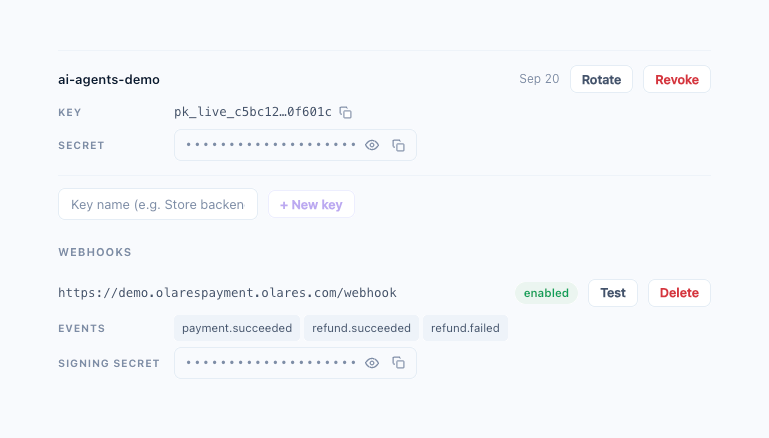
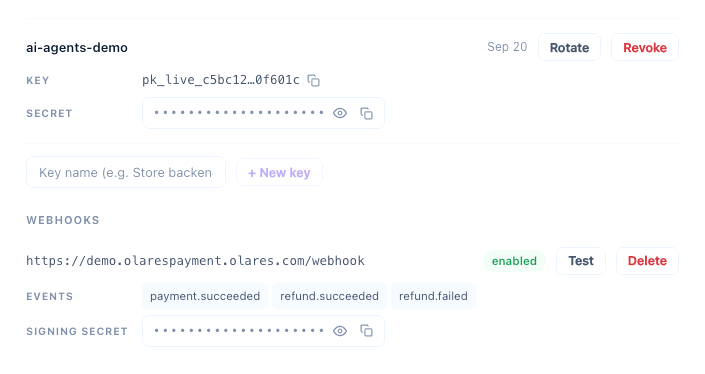
refactor(payment): remove PaymentLlmsLink component and update AI agent documentation

diff --git a/docs/.vitepress/theme/index.ts b/docs/.vitepress/theme/index.ts
@@ -19,7 +19,6 @@ const clientRedirects: Record<string, string> = { ...redirects, ...temporaryRedi
 import AppLinkGlobal from './components/AppLinkGlobal.vue'
 import AppLinkCN from './components/AppLinkCN.vue'
 import TryIt from './components/TryIt.vue'
-import PaymentLlmsLink from './components/PaymentLlmsLink.vue'
 
 
 const LANGUAGE_LOCAL_KEY = "language";
@@ -37,7 +36,6 @@ enhanceApp({ app, router }: { app: App; router: Router }) {
     app.component('AppLinkGlobal', AppLinkGlobal)
     app.component('AppLinkCN', AppLinkCN)
     app.component('TryIt', TryIt)
-    app.component('PaymentLlmsLink', PaymentLlmsLink)
 
       router.onBeforeRouteChange = (to: string) => {
           const path = to.replace(/\.html$/i, ''),

diff --git a/docs/developer/payment/ai-agents.md b/docs/developer/payment/ai-agents.md
@@ -9,65 +9,116 @@ head:
 
 # Build a payment store with an AI agent
 
-This guide shows how to use an AI agent to build a minimal store that accepts Olares Payment and install it on Olares OS. After installation, the store gets a public domain and can take orders from anywhere.
+This article walks you through using an AI agent to build an online store that accepts stablecoins, install it on Olares OS, and get a fixed domain you can reach from anywhere.
 
-The walkthrough below uses `olarespayment@olares.com`. Replace it with your own Olares ID.
-
-:::warning
-This tutorial requires Olares OS 1.12.5 or later.
+::: warning Version requirement
+This tutorial requires Olares OS 1.12.6 or later.
 :::
 
-## Prepare
+Only two values need your attention. Note them down now and copy them as you go:
+
+| Value | In this tutorial | Description |
+|---|---|---|
+| Olares ID domain prefix | `olarespayment` | The part of your Olares ID before the @ |
+| Store entrance name | `demo` | Also the store's subdomain prefix. Pick your own, but keep it identical throughout. |
+
+Following the example, the final address of the store is `https://demo.olarespayment.olares.com`.
+
+The whole job takes three steps. Writing the code, packaging, and installing all go to the agent:
+
+| Step | What you do | What the agent does | State when done |
+|---|---|---|---|
+| 1. Prepare | Create an API key in the Olares Payment merchant dashboard, register the webhook, and write the three secrets into `.env` | — | All secrets ready |
+| 2. Develop and deploy | Send one prompt | Write the code, package and install the Olares app | The store is live with a fixed domain |
+| 3. Verify | Open the store and place an order | — | The order turns "paid" |
+
+Why can you register the webhook in step 1? An Olares app's domain is fixed. It is built from the entrance name and your Olares ID, and you specify the entrance name in the prompt. So `https://demo.olarespayment.olares.com/webhook` is known before you install anything.
+
+## Before you start
 
 - **Prepare an AI agent**: any AI coding agent, such as Codex, Claude Code, Cursor, or DeepSeek Harness.
 - **Install olares-cli and Agent Skills**: see [Install olares-cli](../cli-install) and [Install and use Agent Skills](../cli-agent-skills).
-- **Sign in to Olares OS with olares-cli**: see [Log in to Olares](../cli-log-in). Make sure you are signed in with the example Olares ID, as shown here.
+- **Sign in to Olares OS with olares-cli**: see [Log in to Olares](../cli-log-in). Make sure you are signed in with the example Olares ID.
 
-  ![olares-cli profile list signed-in status](/images/payment/cli-profile-list.png#bordered)
+  ```bash
+  olares-cli profile list
+  ```
 
-- **Push images to a remote registry**: this machine is signed in to Docker Hub or another registry, so you can push images for Olares nodes to pull.
-- **Create an API key in the Olares Payment dashboard**: copy `pk_live_…` (API key) and `sk_live_…` (API secret). See [Quickstart](./quickstart). Set the webhook URL to `https://demo.olarespayment.olares.com/webhook`. After you save, you get `whsec_…`.
+  Example output:
 
-  ![API key and webhook in the Olares Payment dashboard](/images/payment/dashboard-api-webhook.png#bordered)
+  ```text
+      NAME                      OLARES-ID                 STATUS
+  *   olarespayment@olares.com  olarespayment@olares.com  logged-in
+  ```
 
-  In that URL, `olarespayment.olares.com` comes from the Olares ID `olarespayment@olares.com`, with `@` replaced by `.`. Replace it with your own Olares ID.
+  The leading `*` marks the current profile.
 
-- **Prepare a working directory**: create an empty directory. Write the API key, API secret, and webhook secret into `.env`:
+- **Docker**: this machine is logged in to Docker Hub or another public registry with `docker login`. Step 2 pushes images to it.
+
+## Step 1: Prepare
+
+1. Scan the QR code with LarePass to sign in to the Olares Payment merchant dashboard. Your merchant account is created automatically on first sign-in.
+
+2. Open the **Checkouts** page, open **Advanced settings** of the default store, and create a key under **API keys**. You get `pk_live_…` and `sk_live_…`. (For the illustrated steps, see the first two steps of the [Quickstart](./quickstart).)
+
+3. On the same panel, under **Webhooks**, set the webhook URL to `https://demo.olarespayment.olares.com/webhook` and save. You get the signing secret `whsec_…`.
+
+   ![API key and webhook in the Olares Payment merchant dashboard](/images/payment/dashboard-api-webhook.png#bordered)
+
+4. Create a repository and write the three secrets into `.env`:
+
+   ```bash
+   mkdir demo && cd demo
+   git init
+   echo ".env" >> .gitignore
+   ```
+
+   ```plain
+   # .env
+   PAYMENT_API_KEY=pk_live_…
+   PAYMENT_API_SECRET=sk_live_…
+   PAYMENT_WEBHOOK_SECRET=whsec_…
+   ```
+
+## Step 2: Develop and deploy
+
+Start the agent in the repository directory (`codex`, `claude`, or open the folder in Cursor), then send the prompt below. Only `demo` needs changing: replace it with your entrance name, the same one you used in the webhook URL in step 1.
 
 ```plain
-# .env
-PAYMENT_API_KEY=pk_live_…
-PAYMENT_API_SECRET=sk_live_…
-PAYMENT_WEBHOOK_SECRET=whsec_…
+Build a minimal online store (Node.js): a product page, a checkout endpoint, and an order result page.
+Take payments with Olares Payment:
+- On checkout, call createPayment, return checkoutUrl to the frontend, and redirect to the hosted checkout page
+- Expose a /webhook endpoint that receives payment.succeeded and marks the order paid once the signature is verified
+- Read secrets from .env (PAYMENT_API_KEY / PAYMENT_API_SECRET / PAYMENT_WEBHOOK_SECRET);
+  never hardcode them
+
+Then package it as an Olares app and install it on my Olares OS:
+- Build the image and push it to a public registry
+- Generate the chart: fix the external entrance name to demo, make the entrance publicly accessible,
+  and expose the payment secrets as configurable environment variables
+- Upload and install it, then tell me the store's address
+
+Payment API docs: https://www.olares.com/docs/developer/payment/llms-full.txt
 ```
 
-## Build and install on Olares OS
+Once the agent has read the docs, it does the rest in one pass: write the code, run it locally, then package and install it. Packaging details live in the `olares-chart` and `olares-market` skills, so you do not need to guide it. The entrance name is fixed to `demo`, so the address it produces is the one you registered the webhook with in step 1.
 
-Send the payment API document and the prompt below to the agent. When it finishes, the store is installed on your Olares OS. Open it to place an order and get paid.
-
-<PaymentLlmsLink />
-
-```plain
-Build a minimal store (Node.js) that can take payments. Price the
-product at $0.01. Read credentials from .env. Integrate using the
-Olares Payment API docs I provide.
-
-Package it and install it on the Olares OS I have already signed
-in to with olares-cli.
-Use https://demo.olarespayment.olares.com as the store URL.
-Opening it should let me place an order and complete a payment.
-```
-
-:::tip
-The store URL in the prompt is an example. Replace `olarespayment.olares.com` with the address derived from your Olares ID.
+::: info When the address is not what you expected
+If the address the agent reports after installation is not what you expected (Olares assigns another domain when the entrance name is taken), go back to the merchant dashboard and change the webhook URL to the actual domain.
 :::
 
-After it finishes, the store looks like this:
+## Step 3: Verify
 
-![Demo store](/images/payment/ds-v4-flash-store.png#bordered)
+Open `https://demo.olarespayment.olares.com` and place a real order: redirect to the hosted checkout → complete the payment → return to the store, where the order shows "paid".
 
-:::tip
-This demo was generated with DeepSeek-V4.1-Flash.
+The order status is flipped by the webhook notification, so seeing "paid" means the whole chain works: payment, notification, and fulfillment.
+
+When it finishes, the store page looks like this:
+
+![Store page](/images/payment/demo-store.png#bordered)
+
+::: info Example source
+This example was generated with DeepSeek-V4.1-Flash.
 :::
 
 ## Next steps

diff --git a/docs/zh/developer/payment/ai-agents.md b/docs/zh/developer/payment/ai-agents.md
@@ -9,66 +9,118 @@ head:
 
 # 用 AI 智能体搭建收款商店
 
-本文说明如何借助 AI 智能体构建接入 Olares Payment 的最小商店，并将其打包安装到 Olares OS。安装完成后，商店将获得可公开访问的域名，能够接收任意地方的下单。
+这篇文章带你用 AI 智能体做一个能收稳定币的在线商店，安装到 Olares OS 上，获得一个任何地方都能访问的固定域名。
 
-下文以 `olarespayment@olares.com` 为例演示。请将其替换为你自己的 Olares ID。
-
-:::warning
-本教程需要 Olares OS 1.12.5 或更高版本。
+::: warning 版本要求
+本教程需要 Olares OS 1.12.6 或更高版本。
 :::
 
-## 准备工作
+全文只有两个值需要确认，先记下来，后面照抄即可：
+
+| 值 | 本文示例 | 说明 |
+|---|---|---|
+| Olares ID 域名前缀 | `olarespayment` | 你的 Olares ID 中 @ 前的部分 |
+| 商店入口名称 | `demo` | 也是商店的子域名前缀，自取，但全文必须一致 |
+
+按示例，商店的最终地址就是 `https://demo.olarespayment.olares.com`。
+
+整件事只有三步，写代码、打包、安装交给智能体完成：
+
+| 步骤 | 你做什么 | 智能体做什么 | 做完后的状态 |
+|---|---|---|---|
+| 1. 准备 | 在 Olares Payment 商户后台创建 API 密钥，登记 webhook，把三个密钥写进 `.env` | — | 密钥全部就绪 |
+| 2. 开发部署 | 发一段提示词 | 写代码、打包、安装 Olares 应用 | 商店上线，有了固定域名 |
+| 3. 验收 | 打开商店下一单 | — | 订单变为“已支付” |
+
+webhook 为什么能在第 1 步就登记？Olares 应用的域名是确定的，由入口名和 Olares ID 拼成，入口名由你在提示词里指定。所以 `https://demo.olarespayment.olares.com/webhook` 这个地址在安装之前就是已知的。
+
+## 开始前检查
 
 - **准备好 AI 智能体**：任意 AI 编程智能体，如 Codex、Claude Code、Cursor、DeepSeek Harness。
 - **安装 olares-cli 和 Agent Skills**：见[安装 olares-cli](../cli-install) 和[安装与使用 Agent Skills](../cli-agent-skills)。
-- **用 olares-cli 登录 Olares OS**：步骤见[登录 Olares](../cli-log-in)。确保当前登录的是文中示例的 Olares ID，如图。
+- **用 olares-cli 登录 Olares OS**：步骤见[登录 Olares](../cli-log-in)。确保当前登录的是文中示例的 Olares ID。
 
-  ![olares-cli profile list 登录状态](/images/payment/cli-profile-list.png#bordered)
+  ```bash
+  olares-cli profile list
+  ```
 
-- **能把镜像推送到远程仓库**：本机已登录 Docker Hub 或其他镜像仓库，可将镜像推送到仓库，供 Olares 节点拉取。
-- **在 Olares Payment 后台创建 API key**：拿到 `pk_live_…`（API key）和 `sk_live_…`（API secret）。步骤见[快速开始](./quickstart)。Webhook 地址填 `https://demo.olarespayment.olares.com/webhook`，保存后会生成 `whsec_…`。
+  输出示例：
 
-  ![Olares Payment 后台中的 API key 与 webhook](/images/payment/dashboard-api-webhook.png#bordered)
+  ```text
+      NAME                      OLARES-ID                 STATUS
+  *   olarespayment@olares.com  olarespayment@olares.com  logged-in
+  ```
 
-  地址里的 `olarespayment.olares.com` 由 Olares ID `olarespayment@olares.com` 派生，把 `@` 换成 `.`。替换成你自己的 Olares ID。
+  开头的 `*` 标记当前 profile。
 
-- **准备工作目录**：建一个空目录。把上面的 API key、API secret 和 webhook secret 写进 `.env`：
+- **Docker**：本机已 `docker login` 到 Docker Hub 或其他公共镜像仓库，第 2 步推镜像要用。
+
+## 第 1 步：准备
+
+1. 用 LarePass 扫码登录 Olares Payment 商户后台，首次登录会自动创建商户账号。
+
+2. 进入 **Checkouts** 页面，打开默认商店的 **Advanced settings**，在 **API keys** 一栏创建密钥，拿到 `pk_live_…` 和 `sk_live_…`。（图文步骤见[快速开始](./quickstart)的前两步）
+
+3. 在同一面板的 **Webhooks** 一栏，webhook 地址填 `https://demo.olarespayment.olares.com/webhook`，保存，拿到签名密钥 `whsec_…`。
+
+   ![Olares Payment 商户后台中的 API 密钥与 webhook](/images/payment/dashboard-api-webhook.png#bordered)
+
+4. 建一个仓库，把三个密钥写进 `.env`：
+
+   ```bash
+   mkdir demo && cd demo
+   git init
+   echo ".env" >> .gitignore
+   ```
+
+   ```plain
+   # .env
+   PAYMENT_API_KEY=pk_live_…
+   PAYMENT_API_SECRET=sk_live_…
+   PAYMENT_WEBHOOK_SECRET=whsec_…
+   ```
+
+## 第 2 步：开发部署
+
+在仓库目录下启动智能体（`codex`、`claude`，或用 Cursor 打开该文件夹），发送下面这段提示词。整段只有 `demo` 一处需要改，换成你的入口名，和第 1 步 webhook 地址里的保持一致：
 
 ```plain
-# .env
-PAYMENT_API_KEY=pk_live_…
-PAYMENT_API_SECRET=sk_live_…
-PAYMENT_WEBHOOK_SECRET=whsec_…
+做一个最小的在线商店（Node.js）：一个商品页面、一个下单接口、一个订单结果页。
+用 Olares Payment 收款：
+- 下单时调用 createPayment 创建支付，把 checkoutUrl 返回给前端，跳转到托管收银台
+- 提供一个 /webhook 接口接收 payment.succeeded，验签通过后把订单标记为已支付
+- 密钥从 .env 读取（PAYMENT_API_KEY / PAYMENT_API_SECRET / PAYMENT_WEBHOOK_SECRET），
+  不要写进代码
+
+然后把它打包成 Olares 应用，安装到我的 Olares OS 上：
+- 构建镜像并推送到公共镜像仓库
+- 生成 chart：对外入口名固定为 demo，入口设为公开访问，
+  支付密钥做成可配置的环境变量
+- 上传并安装，完成后告诉我商店的访问地址
+
+支付 API 文档：https://www.olares.com/docs/developer/payment/llms-full.txt
 ```
 
-## 构建并安装到 Olares OS
+智能体读完文档后会一口气做完：写代码、本地跑通、打包安装（打包细节在 `olares-chart`、`olares-market` 等 Skills 里，不用你指导）。入口名固定为 `demo`，装出来的地址就是第 1 步登记 webhook 用的那个。
 
-把下面的支付 API 文档和提示词发给智能体。跑完后，商店会装到你的 Olares OS 上，打开就能下单收款。
-
-<PaymentLlmsLink />
-
-```plain
-做一个能收款的最小商店（Node.js），商品 0.01 美元，
-密钥从 .env 读取。按我给的 Olares Payment API 文档接入。
-
-打包安装到我已用 olares-cli 登录的 Olares OS。
-商店地址用 https://demo.olarespayment.olares.com，
-打开就能下一单并完成收款。
-```
-
-:::tip
-提示词里的商店地址是示例。把 `olarespayment.olares.com` 换成你的 Olares ID 派生地址。
+::: info 地址和预期不一致时
+如果安装后智能体报告的地址和预期不一致（入口名被占用时 Olares 会分配别的域名），回商户后台把 webhook 地址改成实际域名即可。
 :::
+
+## 第 3 步：验收
+
+打开 `https://demo.olarespayment.olares.com`，真实下一单：跳转收银台 → 完成支付 → 返回商店，订单显示“已支付”。
+
+订单状态是靠 webhook 通知翻转的，所以看到“已支付”就说明收款、通知、履约整条链路都通了。
 
 执行完毕后，商店页面如下：
 
-![demo 商店](/images/payment/ds-v4-flash-store.png#bordered)
+![商店页面](/images/payment/demo-store.png#bordered)
 
-:::tip
-本 demo 由 DeepSeek-V4.1-Flash 生成。
+::: info 示例来源
+本示例由 DeepSeek-V4.1-Flash 生成。
 :::
 
 ## 下一步
 
 最小商店已经能收款。接下来可以继续扩展，比如让智能体做一个订单管理后台；等打磨好了，再把它[发布到 Olares 应用市场](../develop/submit-apps)，让更多人用上。
-
